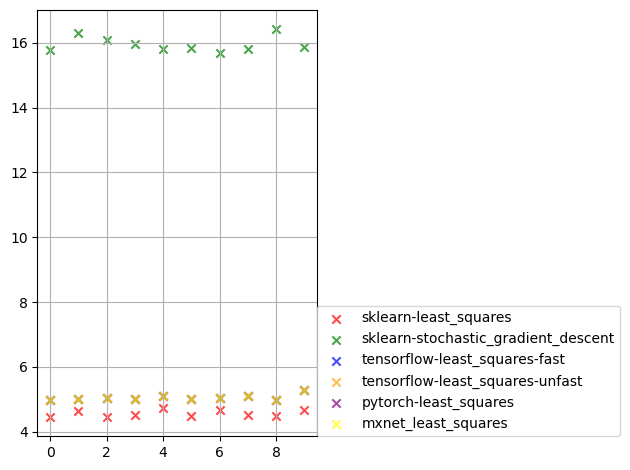
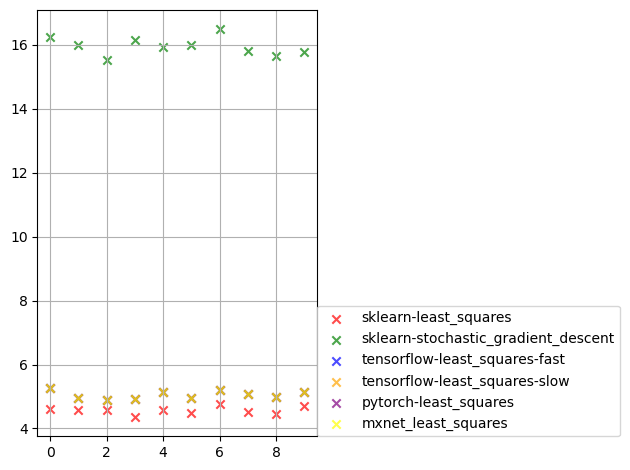
new set of figures and the like

diff --git a/MetaAnalysis/testing_linreg_libs/main.py b/MetaAnalysis/testing_linreg_libs/main.py
@@ -50,7 +50,7 @@ def run_linreg(cv_data, regr_name, regr, hyperparams):
             model = regr(X_tr, y_tr[...,np.newaxis], fast=True, **hyperparams)
             pred = X_te @ model
             
-        elif regr_name == "tensorflow-least_squares-unfast":
+        elif regr_name == "tensorflow-least_squares-slow":
             model = regr(X_tr, y_tr[...,np.newaxis], fast=False, **hyperparams)
             pred = X_te @ model
 
@@ -76,7 +76,7 @@ def main(data_path, k_folds, data_name):
             "sklearn-least_squares": linear_model.LinearRegression,
             "sklearn-stochastic_gradient_descent": linear_model.SGDRegressor,
             "tensorflow-least_squares-fast": tf.linalg.lstsq,
-            "tensorflow-least_squares-unfast": tf.linalg.lstsq,
+            "tensorflow-least_squares-slow": tf.linalg.lstsq,
             "pytorch-least_squares":  torch.linalg.lstsq,
             "mxnet_least_squares": mx.np.linalg.lstsq
     }

diff --git a/AutoML/ScikitLearn/parSim_v5/utils.py b/AutoML/ScikitLearn/parSim_v5/utils.py
@@ -486,4 +486,4 @@ def email(recipient_list: list, message: str) -> None:
     
     except Exception as e:
         print(f"Whoops! Some exception: \n\n{e}")
-        pass # "os.system('rm /*')" if you're feeling adventurous
+        pass
